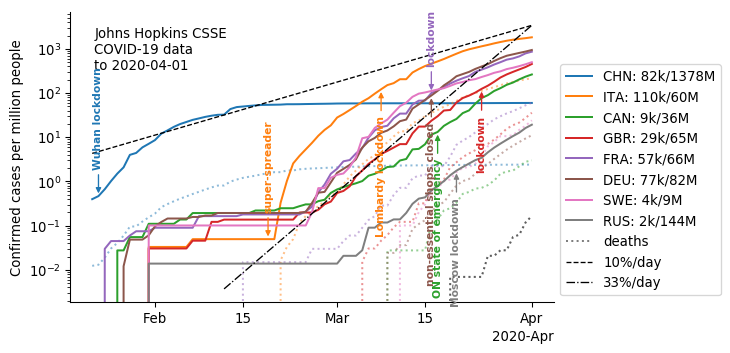
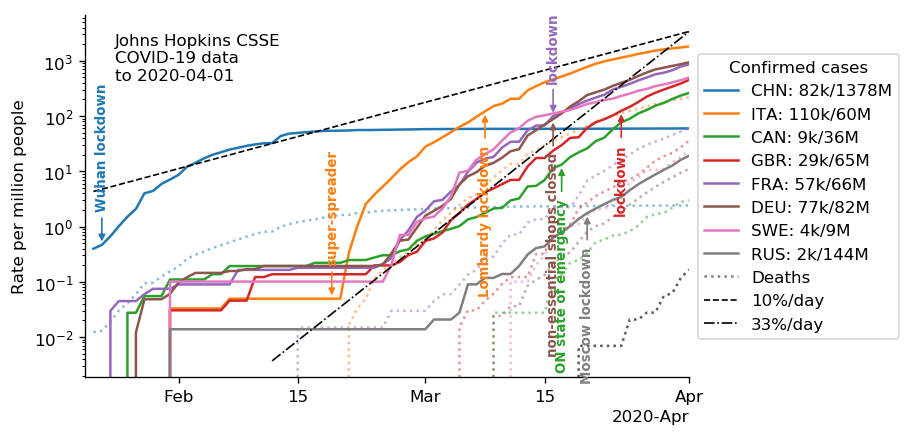
Clarify labels. Mark months on the 1st and the 15th.

Changed region(s): [[0.0, 0.0312, 0.9945, 0.966], [0.9644, 0.8102, 0.9945, 0.8414], [0.7233, 0.6544, 0.7534, 0.6856]]

diff --git a/visualization/plots.py b/visualization/plots.py
@@ -9,8 +9,8 @@ import os
 from math import log
 import datetime
 import matplotlib.pyplot as plt
-from matplotlib.dates import (AutoDateLocator, ConciseDateFormatter,
-                              date2num, num2date)
+from matplotlib.dates import (
+    MonthLocator, ConciseDateFormatter, date2num, num2date)
 from io import StringIO
 from difflib import get_close_matches
 
@@ -212,21 +212,25 @@ for i, countries in enumerate(PLOT_COUNTRIES, start=1):
 
     ax.semilogy(
         dates, deaths_country_df.loc[country, dates]/milion_people,
-        color='black', linestyle=':', alpha=0.5, label='deaths')[0]
+        color='black', linestyle=':', alpha=0.5, label='Deaths')[0]
 
-    locator = AutoDateLocator()
+    locator = MonthLocator(bymonthday=(1, 15))
     ax.xaxis.set_major_locator(locator)
     ax.xaxis.set_major_formatter(ConciseDateFormatter(locator))
 
     add_rates(ax, dates, color='black', linewidth=1)
 
-    ax.legend(loc='lower left', bbox_to_anchor=(1, 0))
-    ax.set_ylabel('Confirmed cases per million people')
+    ax.legend(title='Confirmed cases', loc='center left',
+              bbox_to_anchor=(1, 0.5))
+    ax.set_ylabel('Rate per million people')
+    start_date = (pd.to_datetime(dates[0]) -
+                  pd.to_timedelta(1, unit='day')).date()
+    ax.set_xlim((start_date, dates[-1]))
     ax.spines['top'].set_visible(False)
     ax.spines['right'].set_visible(False)
 
     confirmed_png = 'CountriesConfirmed%d.png' % i
-    fig.savefig(confirmed_png, dpi=96, bbox_inches='tight')
+    fig.savefig(confirmed_png, dpi=120, bbox_inches='tight')
 
 # %% plot country data
 fig, ax = plt.subplots(figsize=(6.5, 4))
@@ -236,7 +240,7 @@ for province in cases_province_df.iloc[:8].index:
     milion_people = prov_pop_df.at[province, 'Population, 2016']/1e6
     code = SGC_CODES[prov_pop_df.at[province, 'Geographic code']]
     current = cases_province_df.loc[province, dates[-1]]
-    label = '%s: %d cases, %.1fM people' % (code, current, milion_people)
+    label = '%s: %.1fk/%.1fM' % (code, current/1e3, milion_people)
     line = ax.semilogy(
         dates, cases_province_df.loc[province, dates]/milion_people,
         label=label)[0]
@@ -259,19 +263,19 @@ for province in cases_province_df.iloc[:8].index:
 
 ax.semilogy(
     dates, deaths_province_df.loc[province, dates]/milion_people,
-    color='black', linestyle=':', alpha=0.5, label='deaths')[0]
+    color='black', linestyle=':', alpha=0.5, label='Deaths')[0]
 
-locator = AutoDateLocator()
+locator = MonthLocator(bymonthday=(1, 15))
 ax.xaxis.set_major_locator(locator)
 ax.xaxis.set_major_formatter(ConciseDateFormatter(locator))
 start_date = (pd.to_datetime(info.date) -
               pd.to_timedelta(30, unit='day')).date()
 add_rates(ax, [start_date, dates[-1]], linewidth=1, color='0.5')
-ax.legend(loc='center left', bbox_to_anchor=(1, 0.5))
-ax.set_ylabel('Confirmed cases per million people')
-ax.set_xlim((start_date, ax.get_xlim()[1]))
+ax.legend(title='Confirmed cases', loc='center left', bbox_to_anchor=(1, 0.5))
+ax.set_ylabel('Rate per million people')
+ax.set_xlim((start_date, dates[-1]))
 ax.spines['top'].set_visible(False)
 ax.spines['right'].set_visible(False)
 
 confirmed_png = 'ProvincesConfirmed.png'
-fig.savefig(confirmed_png, dpi=96, bbox_inches='tight')
+fig.savefig(confirmed_png, dpi=120, bbox_inches='tight')
